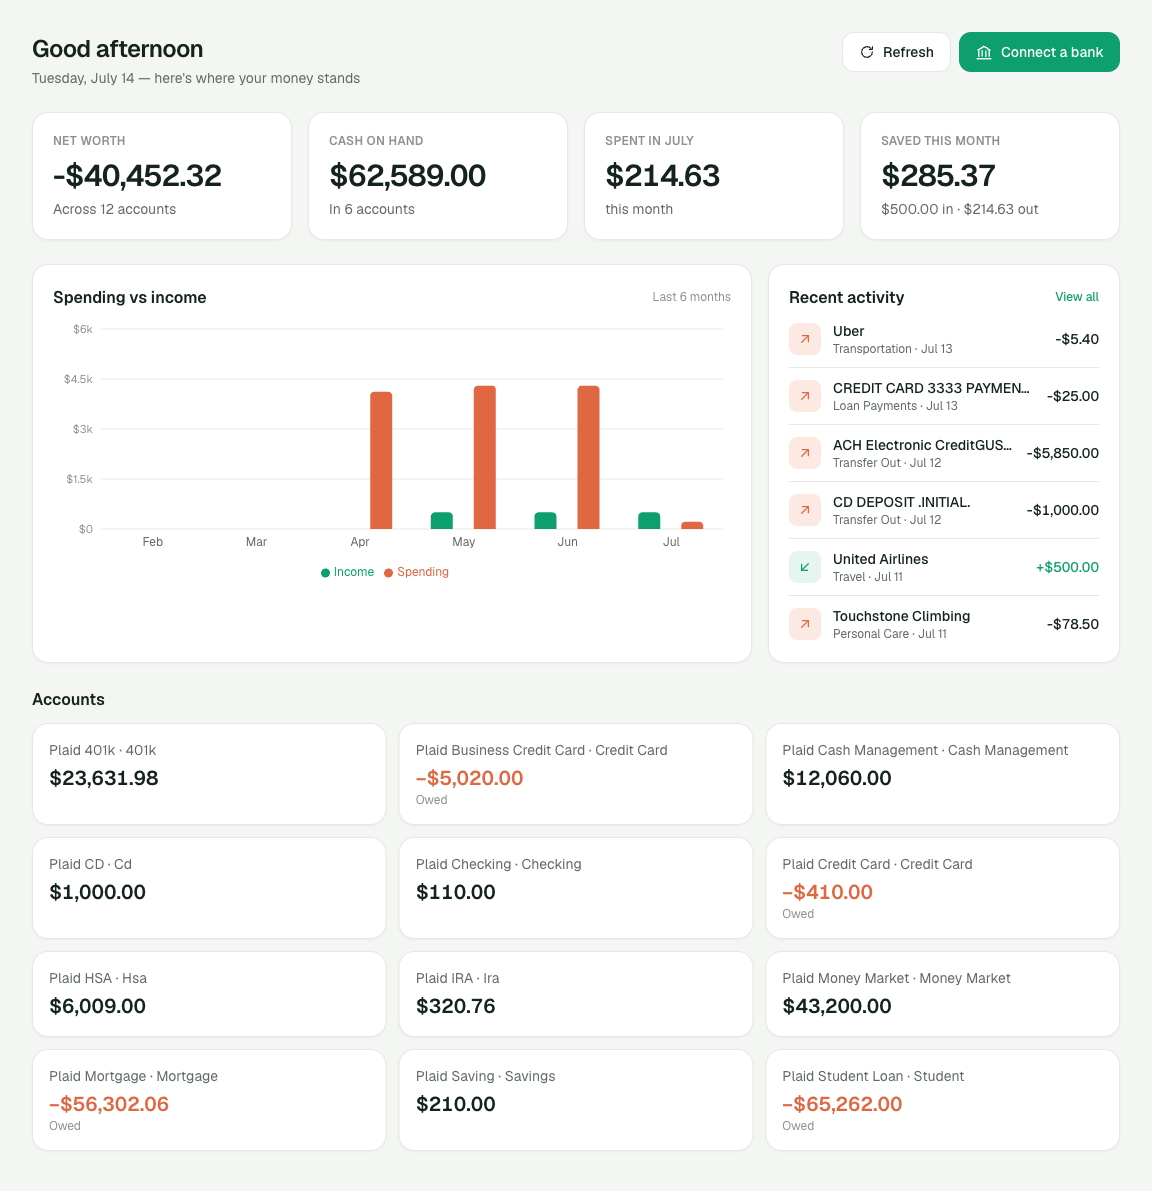
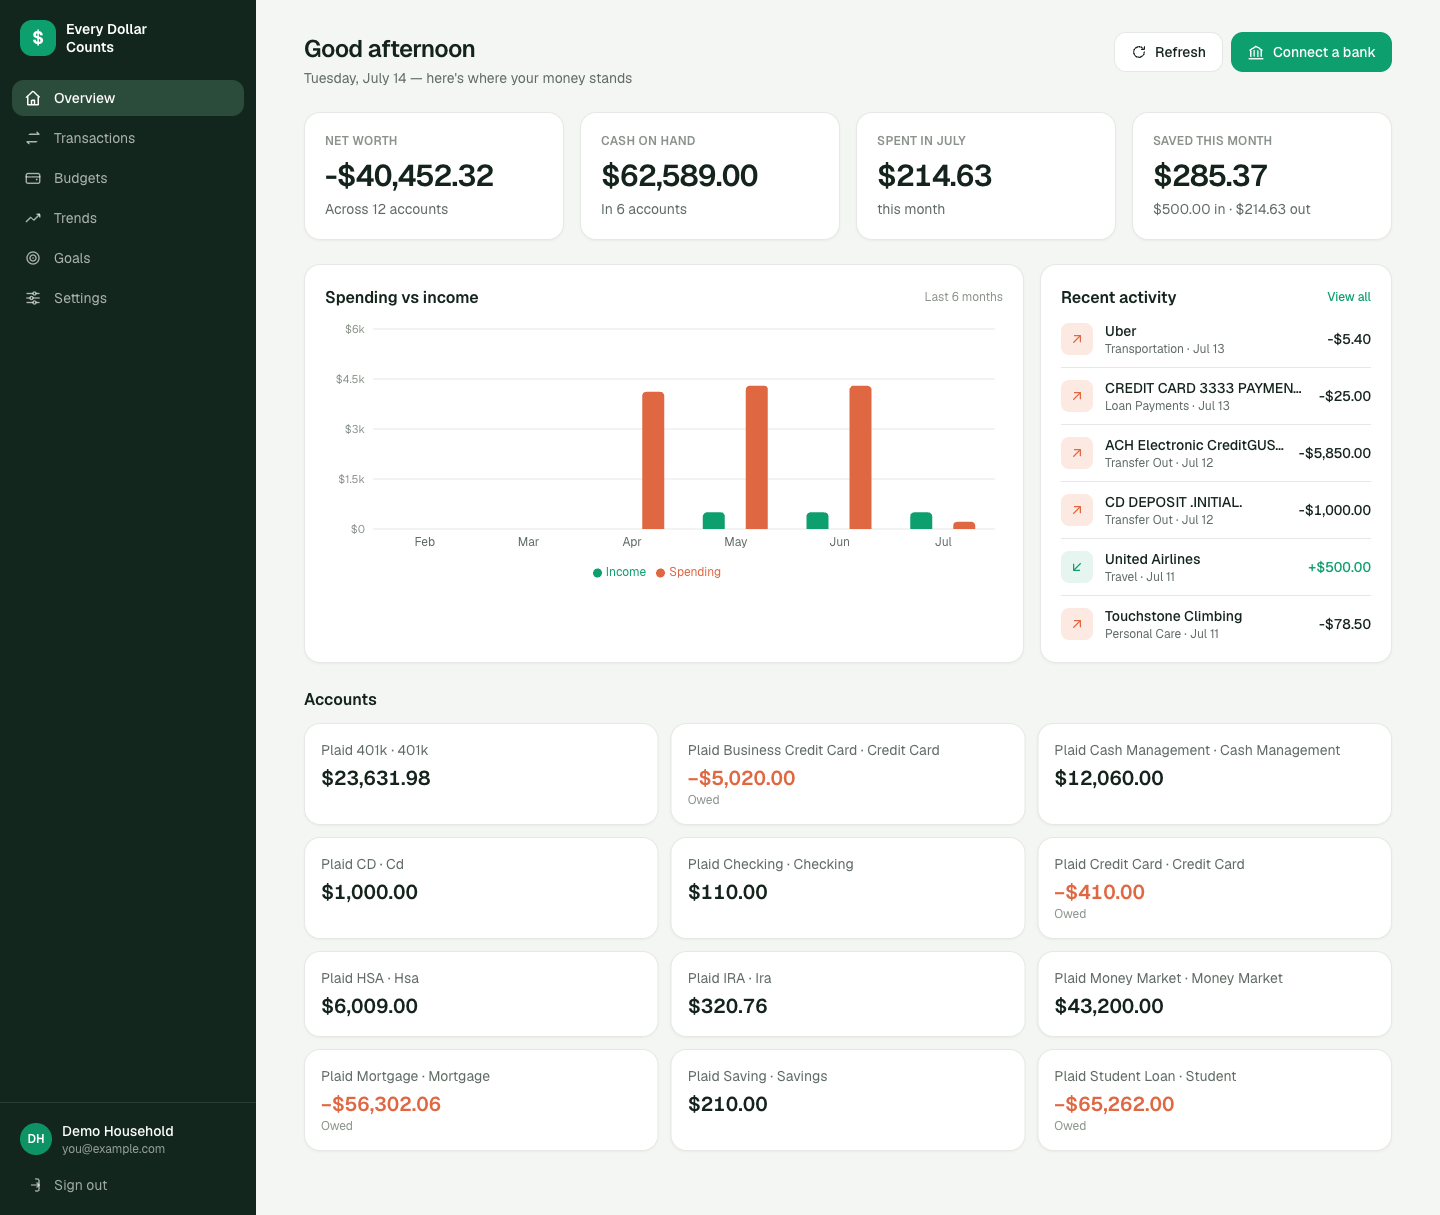
Show the full app shell in the screenshot, with a placeholder household
Replaces the sidebar-cropped shot. The sidebar is the app's most distinctive
element, so cutting it out to hide the signed-in identity lost the design.

Instead the identity itself is swapped for a placeholder before capture:
"DH / Demo Household / [email redacted]". Verified no name/email string survives
anywhere in the rendered page or in the PNG.

Also: sized the viewport to the full page height, because the sidebar is
`fixed inset-y-0` and is therefore only ever viewport-tall — a full-page capture
left a white gap below it. And removed the Next.js dev-tools badge, which floats
over the sidebar's bottom corner.

diff --git a/README.md b/README.md
@@ -6,9 +6,9 @@ Mint shut down, and the replacements all wanted a subscription to show me my own
 
 **Live:** [every-dollar-counts.vercel.app](https://every-dollar-counts.vercel.app) — invite-only, since it's our household's money.
 
-![The dashboard: net worth, cash on hand, spending vs income, and every linked account](docs/dashboard.png)
+![The dashboard: net worth, cash on hand, spending vs income, recent activity, and every linked account](docs/dashboard.png)
 
-<sub>Running against Plaid's sandbox — every account above is a fake bank with fake transactions.</sub>
+<sub>Running against Plaid's sandbox — every account above is a fake bank with fake transactions, and the household is a placeholder.</sub>
 
 ## What it does
 